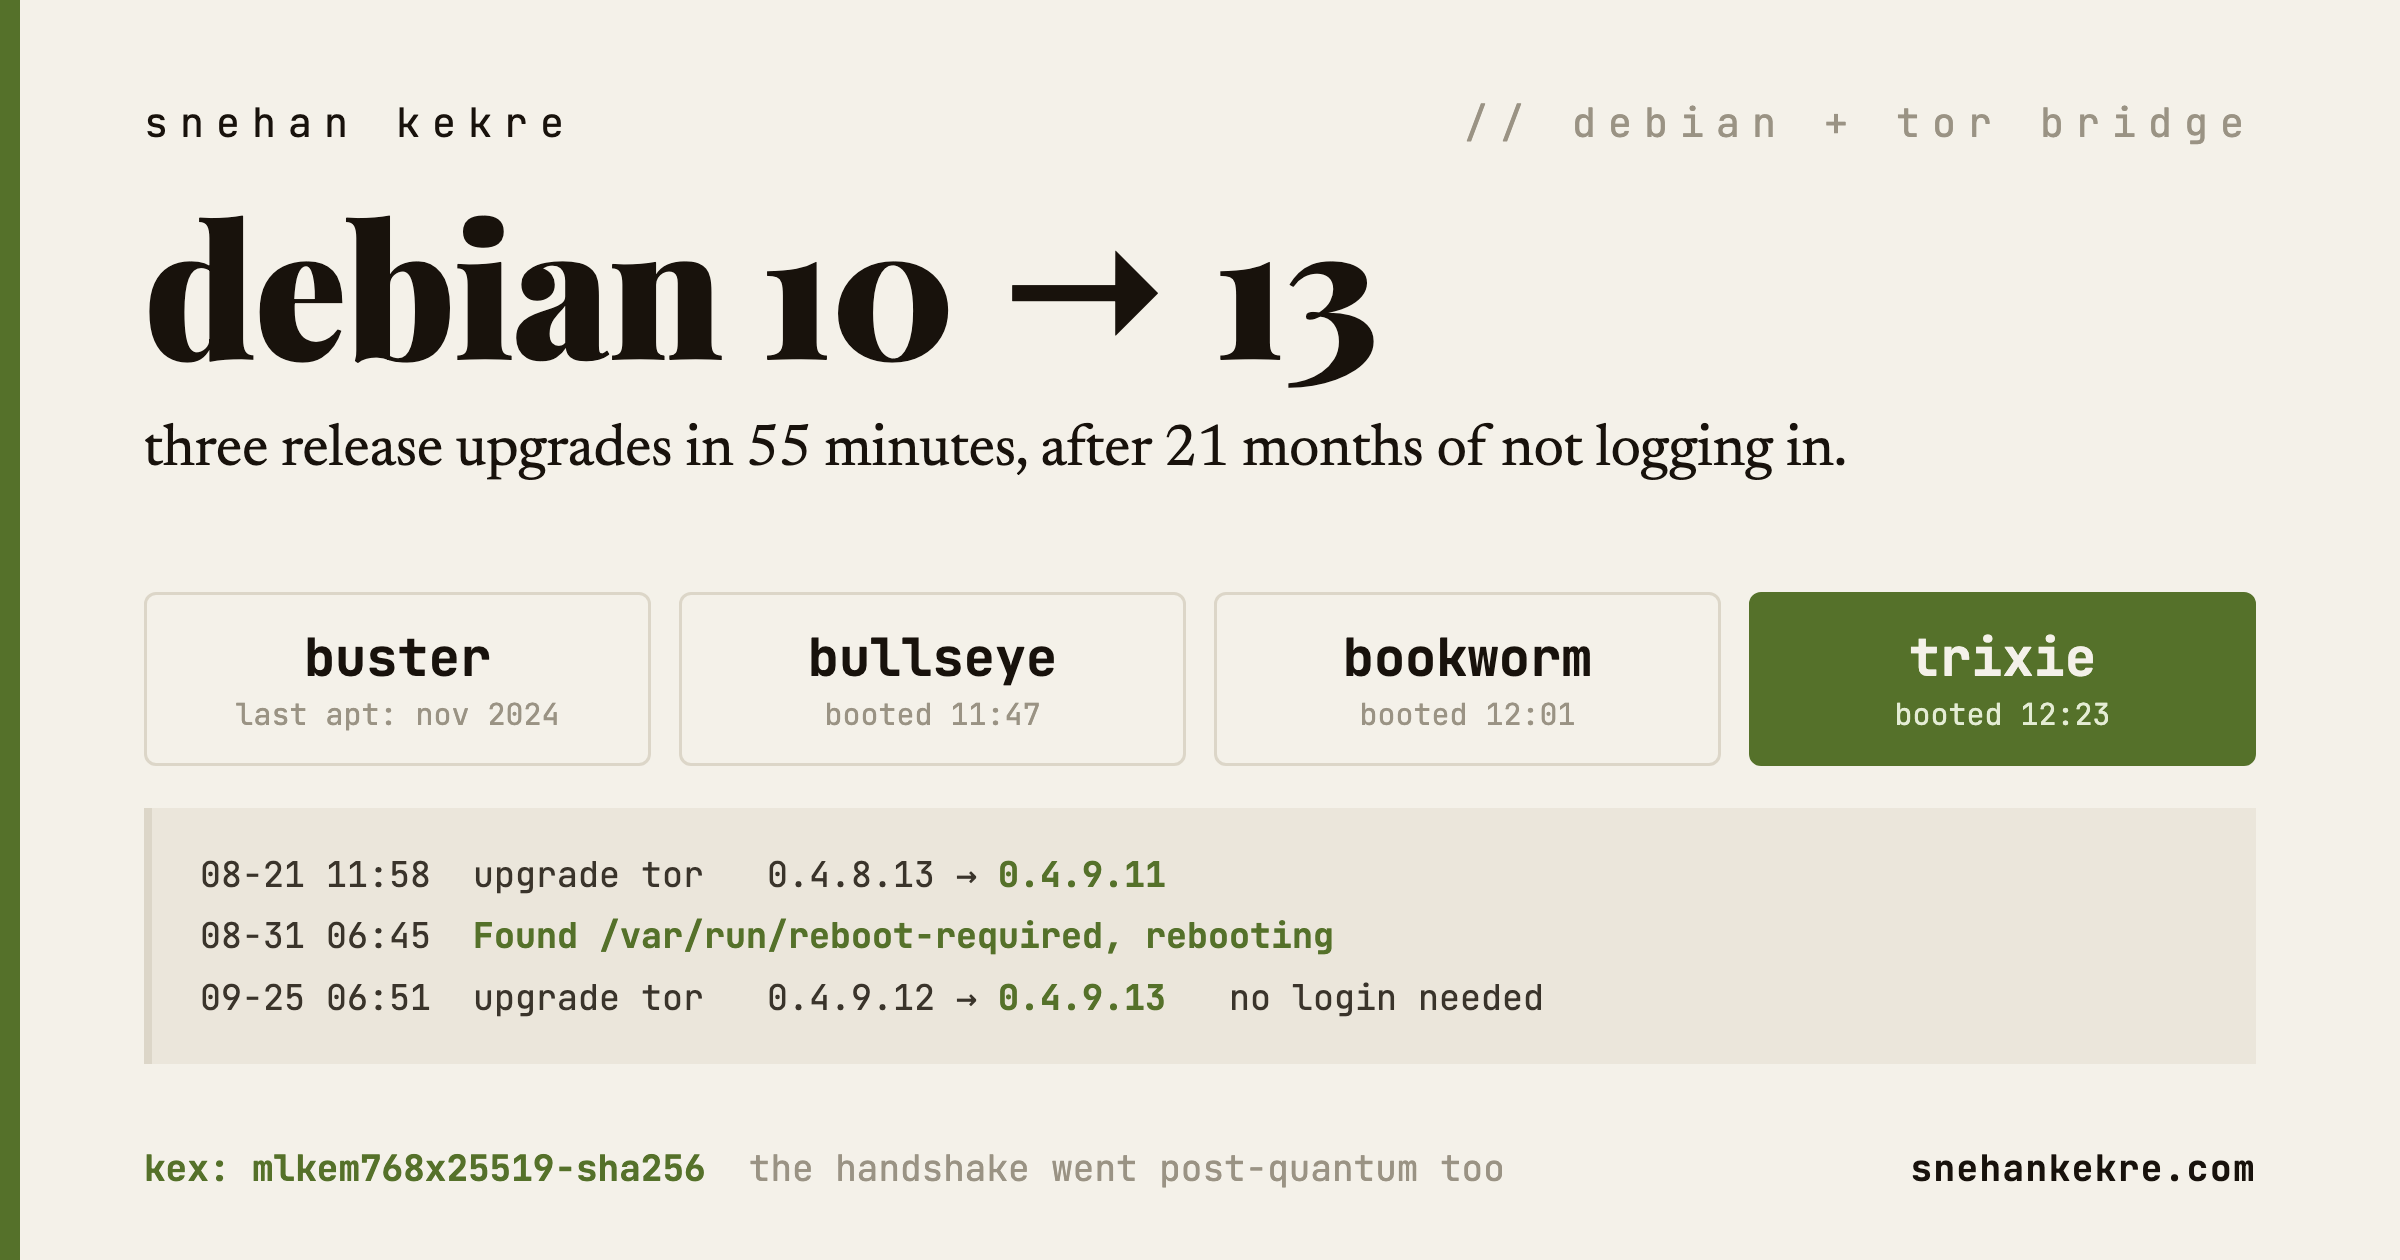
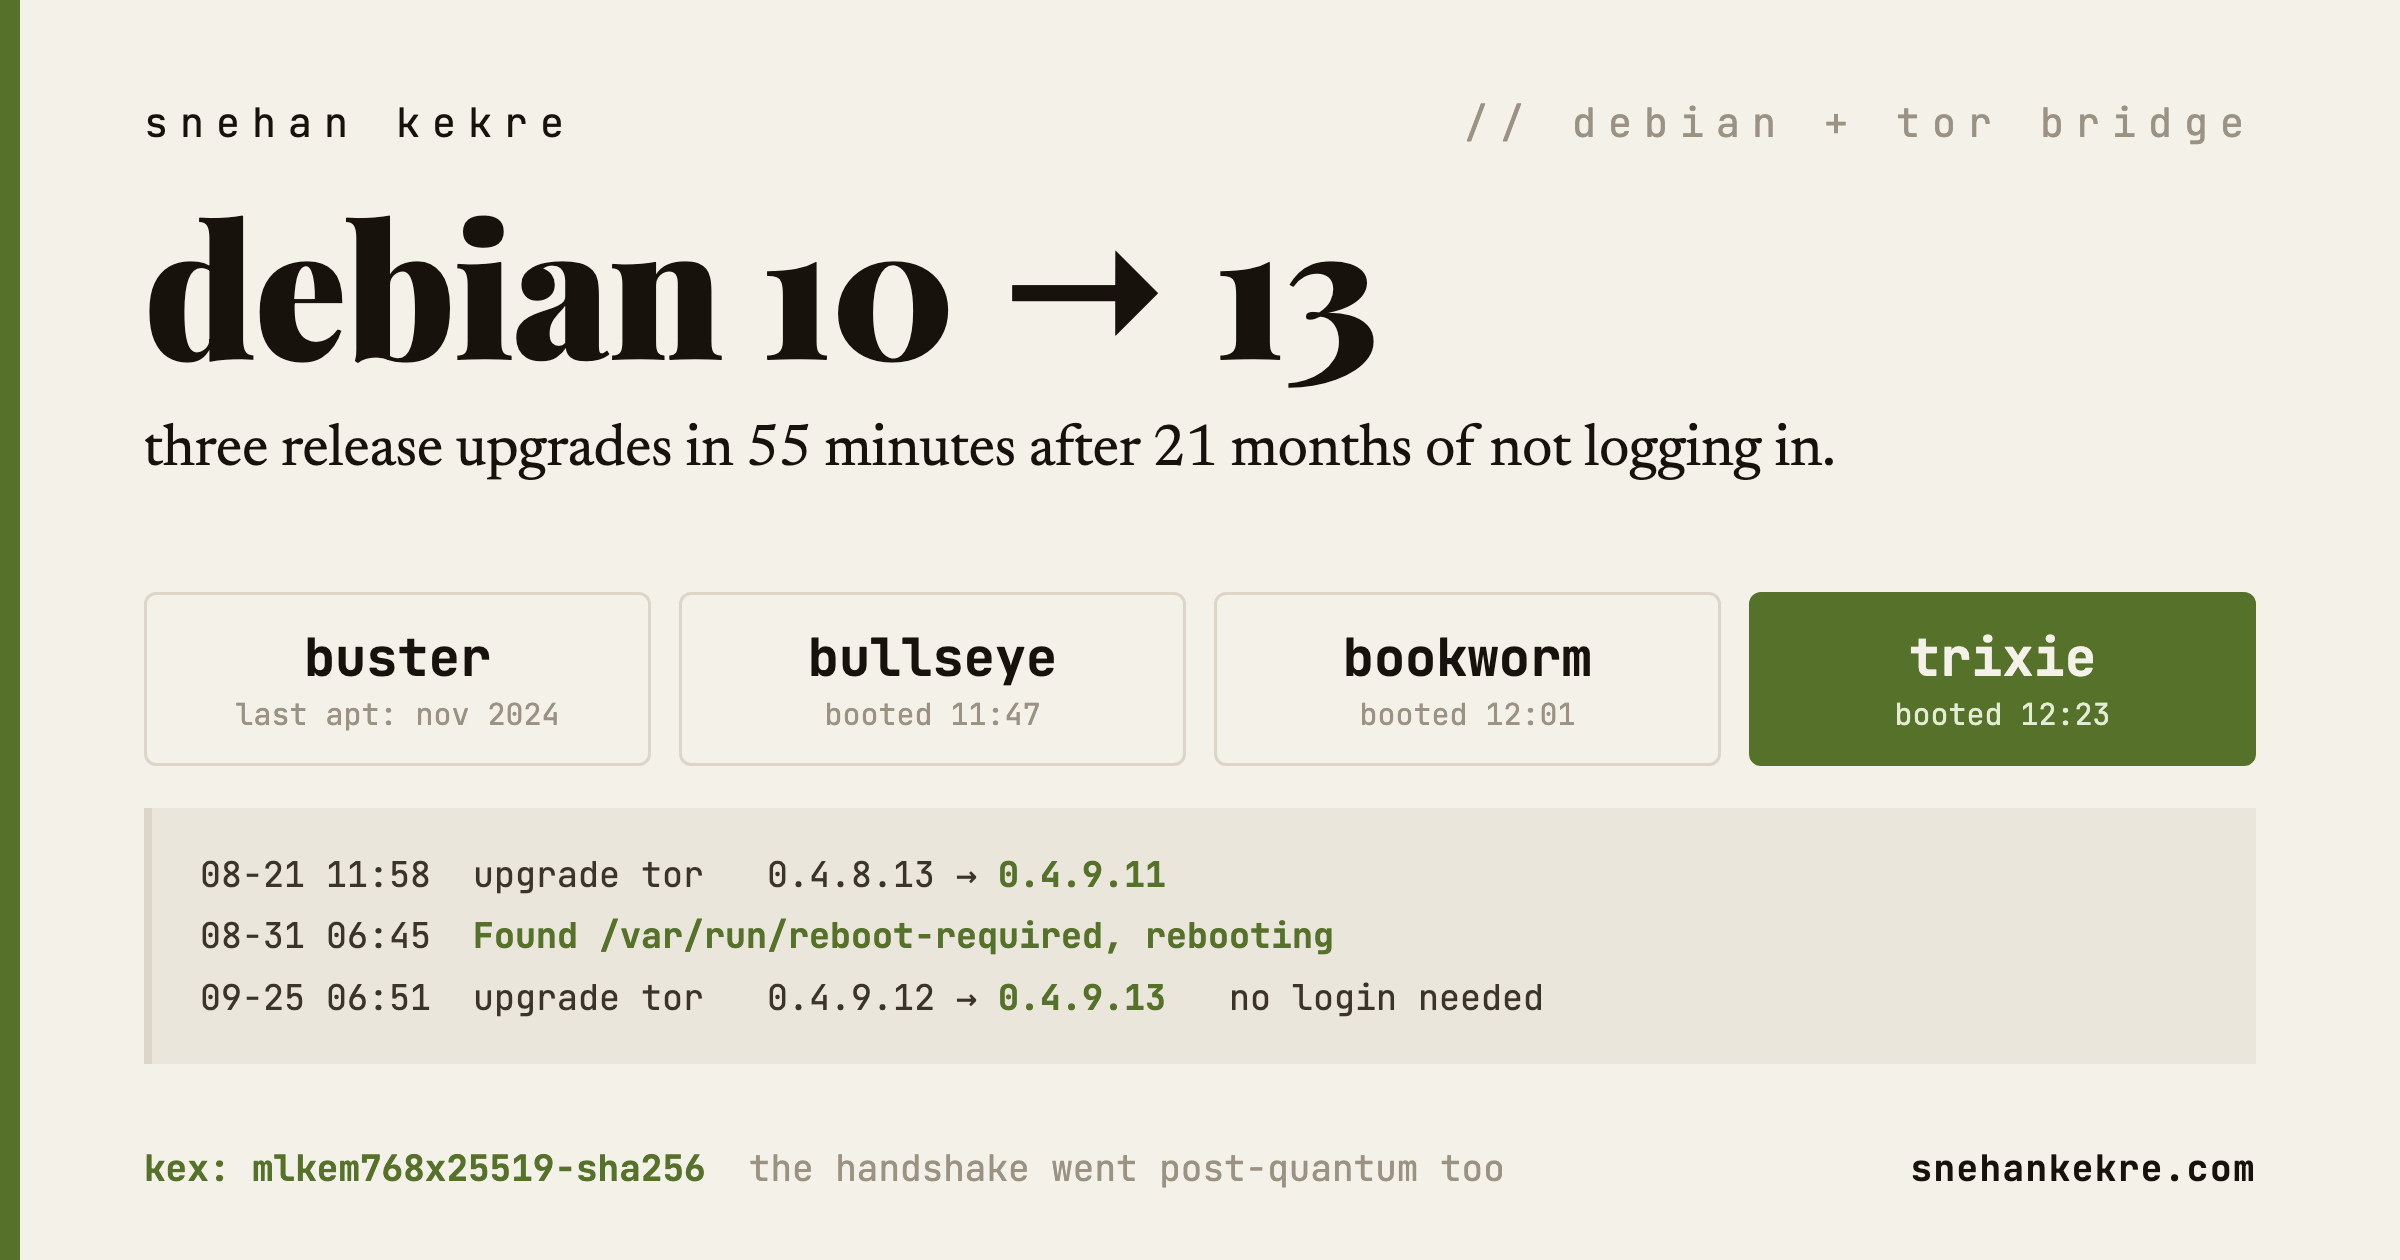
Show the two YubiKeys and the grub prompt in the Debian post, and drop a comma from its card

Changed region(s): [[0.4062, 0.3405, 0.7812, 0.4024]]

diff --git a/src/data/post/debian-10-to-13.md b/src/data/post/debian-10-to-13.md
@@ -88,6 +88,8 @@ FIDO2 and speaks only U2F, which signs with ECDSA on the P-256 curve. The newer
 firmware 5.2.3 on and the NEO does not. OpenSSH's
 [`ssh-keygen` manual](https://man.openbsd.org/ssh-keygen) lists both types. I made both keys `ecdsa-sk` so they would behave the same way.
 
+![Two worn YubiKeys on a white sheet. On top, the USB-A YubiKey NEO, plugged into a white USB-A to USB-C adapter. Below it, the USB-C YubiKey 5 NFC. Both have the gold touch contact scuffed from years of use.](/posts/debian-10-to-13/yubikeys.jpg)
+
 When I created the two key files, I named them the wrong way round. The file called
 `id_ecdsa_sk_neo` belonged to the YubiKey 5, and `id_ecdsa_sk` belonged to the NEO.
 Plugging in one token and pointing ssh at the other token's file gets you a server that
@@ -255,6 +257,8 @@ rather than dpkg's plain prompt, with "keep the local version currently installe
 highlighted. I kept it. VPS images usually put their own kernel command line in that
 file, for example to send the console to a serial port the provider's panel can read,
 and I didn't want to find out whether this one would boot without it lol.
+
+![The blue debconf dialog titled "Configuring grub-pc". It says a new version of /etc/default/grub is available but the installed version has been locally modified, and asks what to do. "keep the local version currently installed" is highlighted, above options to install the package maintainer's version, show the differences, or start a shell.](/posts/debian-10-to-13/configuring-grub.jpg)
 
 ### cloud-init owns sources.list
 
